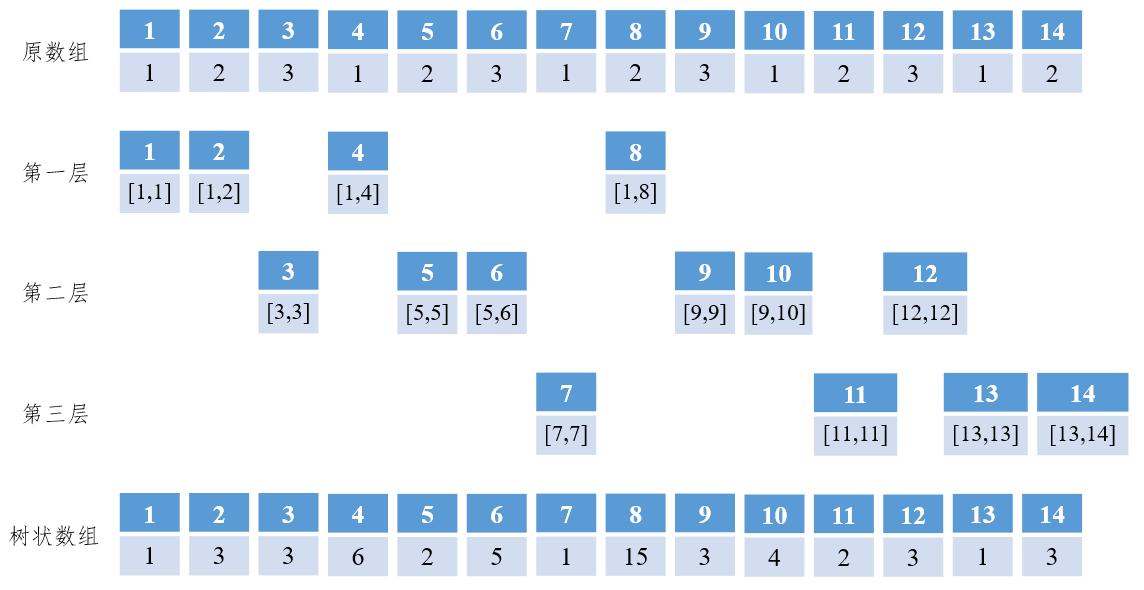
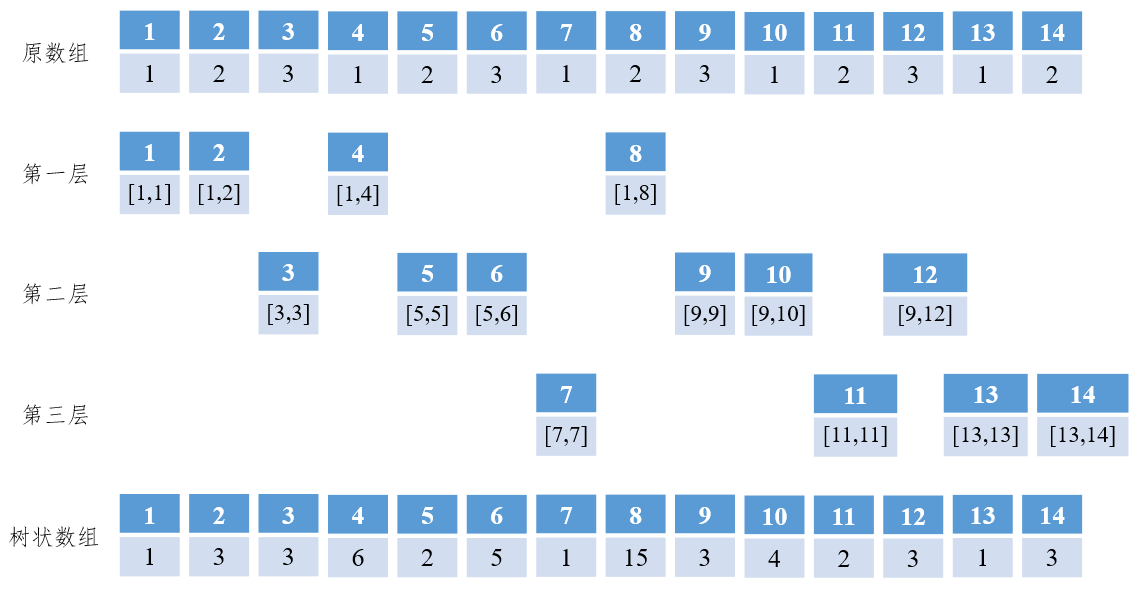
update blog

diff --git a/_posts/2018-11-23-LeetCode第307题.md b/_posts/2018-11-23-LeetCode第307题.md
@@ -1,0 +1,152 @@
+---
+layout:     post                    
+title:      树状数组               
+subtitle:   使用树状数组来高效处理对一个数组的更新及前缀求和
+date:       2018-11-23              
+author:     P70                      
+header-img: img/post-bg-hacker.jpg    
+catalog: true                       
+tags:                               
+    - LeetCode题解
+    - 算法与数据结构
+---
+
+## 题目描述
+>给定一个整数数组nums，求出数组从索引i到j(i ≤ j) 范围内元素的总和，包含i,j两点。
+
+>update(i, val)函数可以通过将下标为i的数值更新为val，从而对数列进行修改。
+
+实例：
+
+>Given nums = [1, 3, 5]
+>
+>sumRange(0, 2) -> 9
+>
+>update(1, 2)
+>
+>sumRange(0, 2) -> 8
+
+说明：
+ 
+- 数组仅可以在 update 函数下进行修改。  
+- 你可以假设 update 函数与 sumRange 函数的调用次数是均匀分布的。
+
+## 初步思路
+
+定义一个新的数组memo，用来保存每一个索引的前缀和，利用动态规划的思想来进行计算，时间复杂度为O(n)，计算**sumRange(i,j)**只需要用**memo[j]-memo[i-1]**，该操作的时间复杂度为O(1)。
+此方法的缺陷在于，每一次对数组进行更新时，都需要对memo进行维护，时间复杂度为O(n)，当更新操作的数量较多时，就需要对此方法进行优化。
+
+## 优化思路
+
+### 树状数组(Binary Indexed Tree)
+树状数组并不是一棵树，而是根据每一个数组元素索引(从1开始计数)的二进制表示来对数组中的元素进行逻辑上的分层存储。
+
+例如，给定位置为14，14的二进制表示为1110，根据14的二进制表示来对14进行分层，可以得到：14 = 8 + 4 + 2 = 2^3 + 2^2 + 2^1。则sumRange(1,14) = sumRange(1,8) + sumRange(9,12) + sumRange(13,14)。只需要提前将sumRange(1,8)、sumRange(9,12)以及sumRange(13,14)计算好，即可得到sumRange(1,8)。
+
+## 对数组进行分层
+![数组分层图](https://raw.githubusercontent.com/SadMathLovergo/SadMathLovergo.github.io/master/img/2018-11-23/2018-11-23-1.png)
+
+如图所示，对数组(从1开始)进行分层存储，每一层从数组的每一个空白处的第一个元素开始，计算区间长度为2的指数个的区间内元素之和，例如第一层的空白为[1,14]，所以第一个元素为1，可以获得以下区间：
+
+- [1,1] 长度为2^0=1
+- [1,2] 长度为2^1=2
+- [1,4] 长度为2^2=4
+- [1,8] 长度为2^3=8
+
+第二层的空白为[3,3]、[5,7]、[9,14]，可以获得以下区间：
+
+- [3,3]
+- [5,5] [5,6]
+- [9,9] [9,10] [9,12]
+
+同理，第三层可以获得以下区间：
+
+- [7,7]
+- [11,11]
+- [13,13] [13,14]
+
+**每一个区间对应树状数组中的一个元素，元素值为原数组中此区间的所有元素值之和**，这样一来，当原数组中的元素发生改变时，不需要对树状数组中后续所有元素进行更新，只需要对包含此元素的区间对应的元素值进行更新即可，可以减小此操作的时间复杂度。
+
+每一个给定区间都可以拆解为上述区间，例如:
+
+- [8,14] = [1,14] - [1,7]
+- [1,7] = [1,4] + [5,6] + [7,7]
+- [1,14] = [1,8] + [9,12] + [13,14]
+
+## 区间的拆解过程
+
+![数组分层图](https://raw.githubusercontent.com/SadMathLovergo/SadMathLovergo.github.io/master/img/2018-11-23/2018-11-23-2.png)
+
+区间的拆解过程如上图所示，找到每一个节点对应的母节点，即可对区间进行拆解，通过观察以下过程以发现规律。
+
+- 14 -> 12 -> 8 ->
+- 14的二进制表示:1110
+- 12的二进制表示：1100
+- 8的二进制表示：1000
+
+每一个节点的母节点为，将此节点的二进制表示的最后一个1变为0即可。节点x的二进制表示的最后一个1可表示为**x & (-x)**，则母节点可表示为**x - x & (-x)**。
+
+## 对树状数组的数组进行更新
+
+![数组顺序图](https://raw.githubusercontent.com/SadMathLovergo/SadMathLovergo.github.io/master/img/2018-11-23/2018-11-23-3.png)
+
+当原数组中一个元素发生变化时，只需要对此元素所在的区间对应的树状数组元素进行更新即可。原数组每个元素发生变化时，会影响的区间如图所示。若发生变化的原数组元素位置为1，则此节点会影响的区间为[1,1]、[1,2]、[1,4]以及[1,8]，对应树状数组中的1、2、4、8，通过观察以下过程可以发现规律。
+
+- 1 -> 2 -> 4 -> 8
+- 1的二进制表示为：0001
+- 2的二进制表示为：0010
+- 4的二进制表示为：0100
+- 8的二进制表示为：1000
+
+此过程与区间的拆解过程刚好相反，对节点x，影响的下一个节点为**x + x & (-x)**。
+
+## AC代码
+    #pragma once
+    #include <vector>
+    using namespace std;
+    
+    //第307题 区域和检索-数组可修改
+    //解题思路：使用树状数组
+    class NumArray {
+    private:
+    	vector<int> oriNum;
+    	vector<int> memo;
+    
+    public:
+    	NumArray(vector<int> nums) {
+    		oriNum.resize(nums.size());
+    		memo.resize(nums.size() + 1);
+    		memo[0] = 0;
+    		for (int i = 0; i < nums.size(); i++)
+    			update(i, nums[i]);
+    	}
+    
+    	void update(int i, int val) {
+    		int delta = val - oriNum[i];
+    		oriNum[i] = val;
+    		i++;
+    		while (i < memo.size()) {
+    			memo[i] += delta;
+    			i = i + (i & -i);
+    		}
+    	}
+    
+    	int sumRange(int i, int j) {
+    		if (i == 0)
+    			return sum(j);
+    		return sum(j) - sum(i - 1);
+    	}
+    
+    	int sum(int i) {
+    		int temp = 0;
+    		i++;
+    		while (i > 0) {
+    			temp += memo[i];
+    			i = i - (i & -i);
+    		}
+    		return temp;
+    	}
+    };
+
+## 参考资料
+[树状数组(Binary Indexed Tree)，看这一篇就够了](https://blog.csdn.net/Yaokai_AssultMaster/article/details/79492190)
